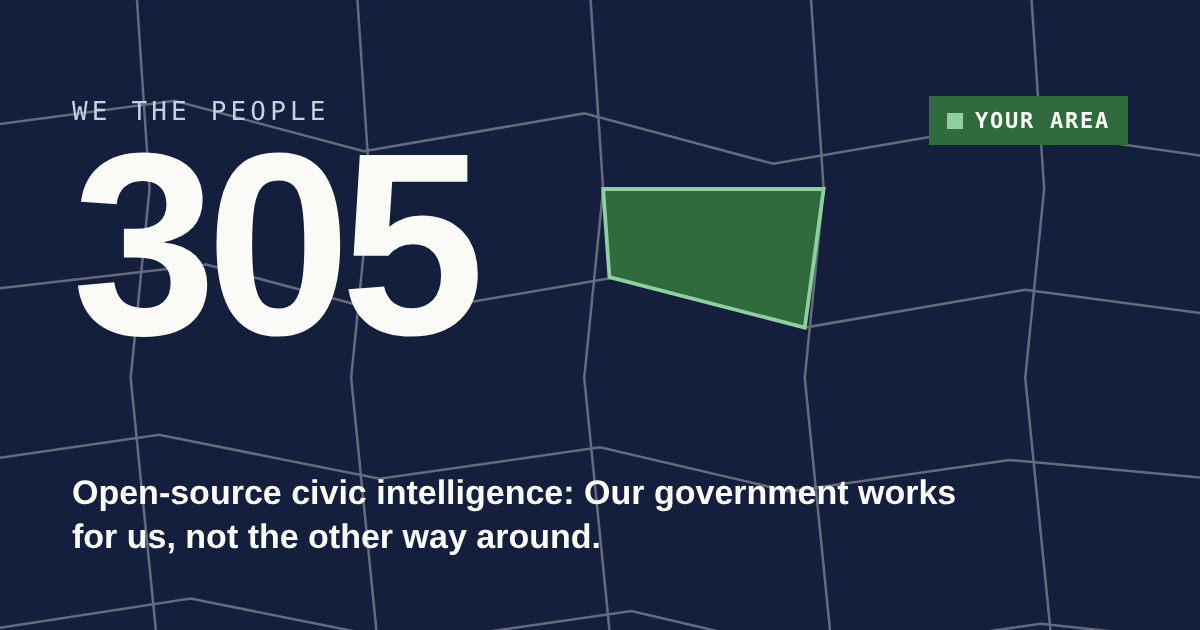
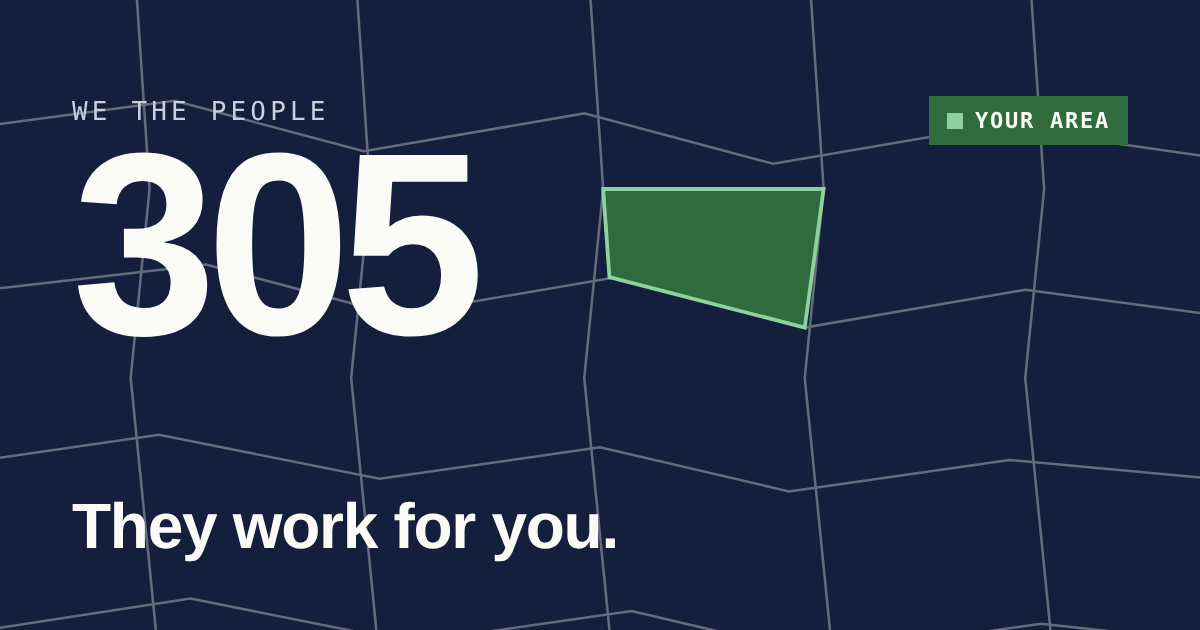
Tagline: They work for you
Claude-Session: https://claude.ai/code/session_01XMxmTVHWjG4nFyTix1VAhr

Changed region(s): [[0.0617, 0.754, 0.8017, 0.9048]]

diff --git a/public/index.html b/public/index.html
@@ -3,22 +3,22 @@
 <head>
 <meta charset="utf-8">
 <meta name="viewport" content="width=device-width, initial-scale=1">
-<title>We the People 305</title>
+<title>We the People 305: They work for you</title>
 <meta name="description" content="Open-source civic intelligence. Personalized, local and actionable: the public resources you are entitled to, the government decisions coming that will touch your life, and the most effective thing you can do right now. First deployment: Miami-Dade.">
 <link rel="icon" href="/favicon.svg" type="image/svg+xml">
 <link rel="canonical" href="https://wethepeople305.org/">
 <meta property="og:type" content="website">
 <meta property="og:site_name" content="We the People 305">
-<meta property="og:title" content="We the People 305">
-<meta property="og:description" content="Open-source civic intelligence: Our government works for us, not the other way around. Personalized, local and actionable.">
+<meta property="og:title" content="We the People 305: They work for you">
+<meta property="og:description" content="Open-source civic intelligence. Personalized, local and actionable: what your government is about to decide, what it means for you, and what you can do about it.">
 <meta property="og:url" content="https://wethepeople305.org/">
 <meta property="og:image" content="https://wethepeople305.org/og.png">
 <meta property="og:image:width" content="1200">
 <meta property="og:image:height" content="630">
 <meta property="og:image:alt" content="We the People 305: the precinct map mark on navy">
 <meta name="twitter:card" content="summary_large_image">
-<meta name="twitter:title" content="We the People 305">
-<meta name="twitter:description" content="Open-source civic intelligence: Our government works for us, not the other way around.">
+<meta name="twitter:title" content="We the People 305: They work for you">
+<meta name="twitter:description" content="Open-source civic intelligence. Personalized, local and actionable.">
 <meta name="twitter:image" content="https://wethepeople305.org/og.png">
 <link rel="preconnect" href="https://fonts.googleapis.com">
 <link href="https://fonts.googleapis.com/css2?family=Libre+Franklin:wght@400;600;800;900&family=IBM+Plex+Mono:wght@400;500;600&display=swap" rel="stylesheet">
@@ -31,6 +31,7 @@
   .wrap{max-width:720px;margin:0 auto;position:relative}
   .top{display:flex;align-items:flex-end;justify-content:space-between;gap:16px;flex-wrap:wrap}
   .kicker{font-family:var(--mono);font-size:12px;letter-spacing:.16em;text-transform:uppercase;color:#C9CFDF;margin-bottom:4px}
+  .tag{font-weight:800;font-size:18px;margin-top:10px;letter-spacing:-.01em}
   .meta{font-family:var(--mono);font-size:12px;color:#C9CFDF;margin-top:6px;text-align:right}
   main{max-width:720px;margin:0 auto;padding:28px 16px 56px}
   .lede{font-size:20px;line-height:1.5;font-weight:600;margin:4px 0 18px}
@@ -61,7 +62,7 @@
     <path d="M198 88 L260 104 L266 60 L196 60 Z" fill="#2F6B3C" fill-opacity=".9" stroke="#8FD19E" stroke-width="1.5"></path>
   </svg>
   <div class="wrap top">
-    <div><div class="kicker">We the People</div><div class="wtp-mark">305</div></div>
+    <div><div class="kicker">We the People</div><div class="wtp-mark">305</div><div class="tag">They work for you.</div></div>
     <div><span class="wtp-area">Your area</span><div class="meta">Miami-Dade · first deployment</div></div>
   </div>
 </header>
